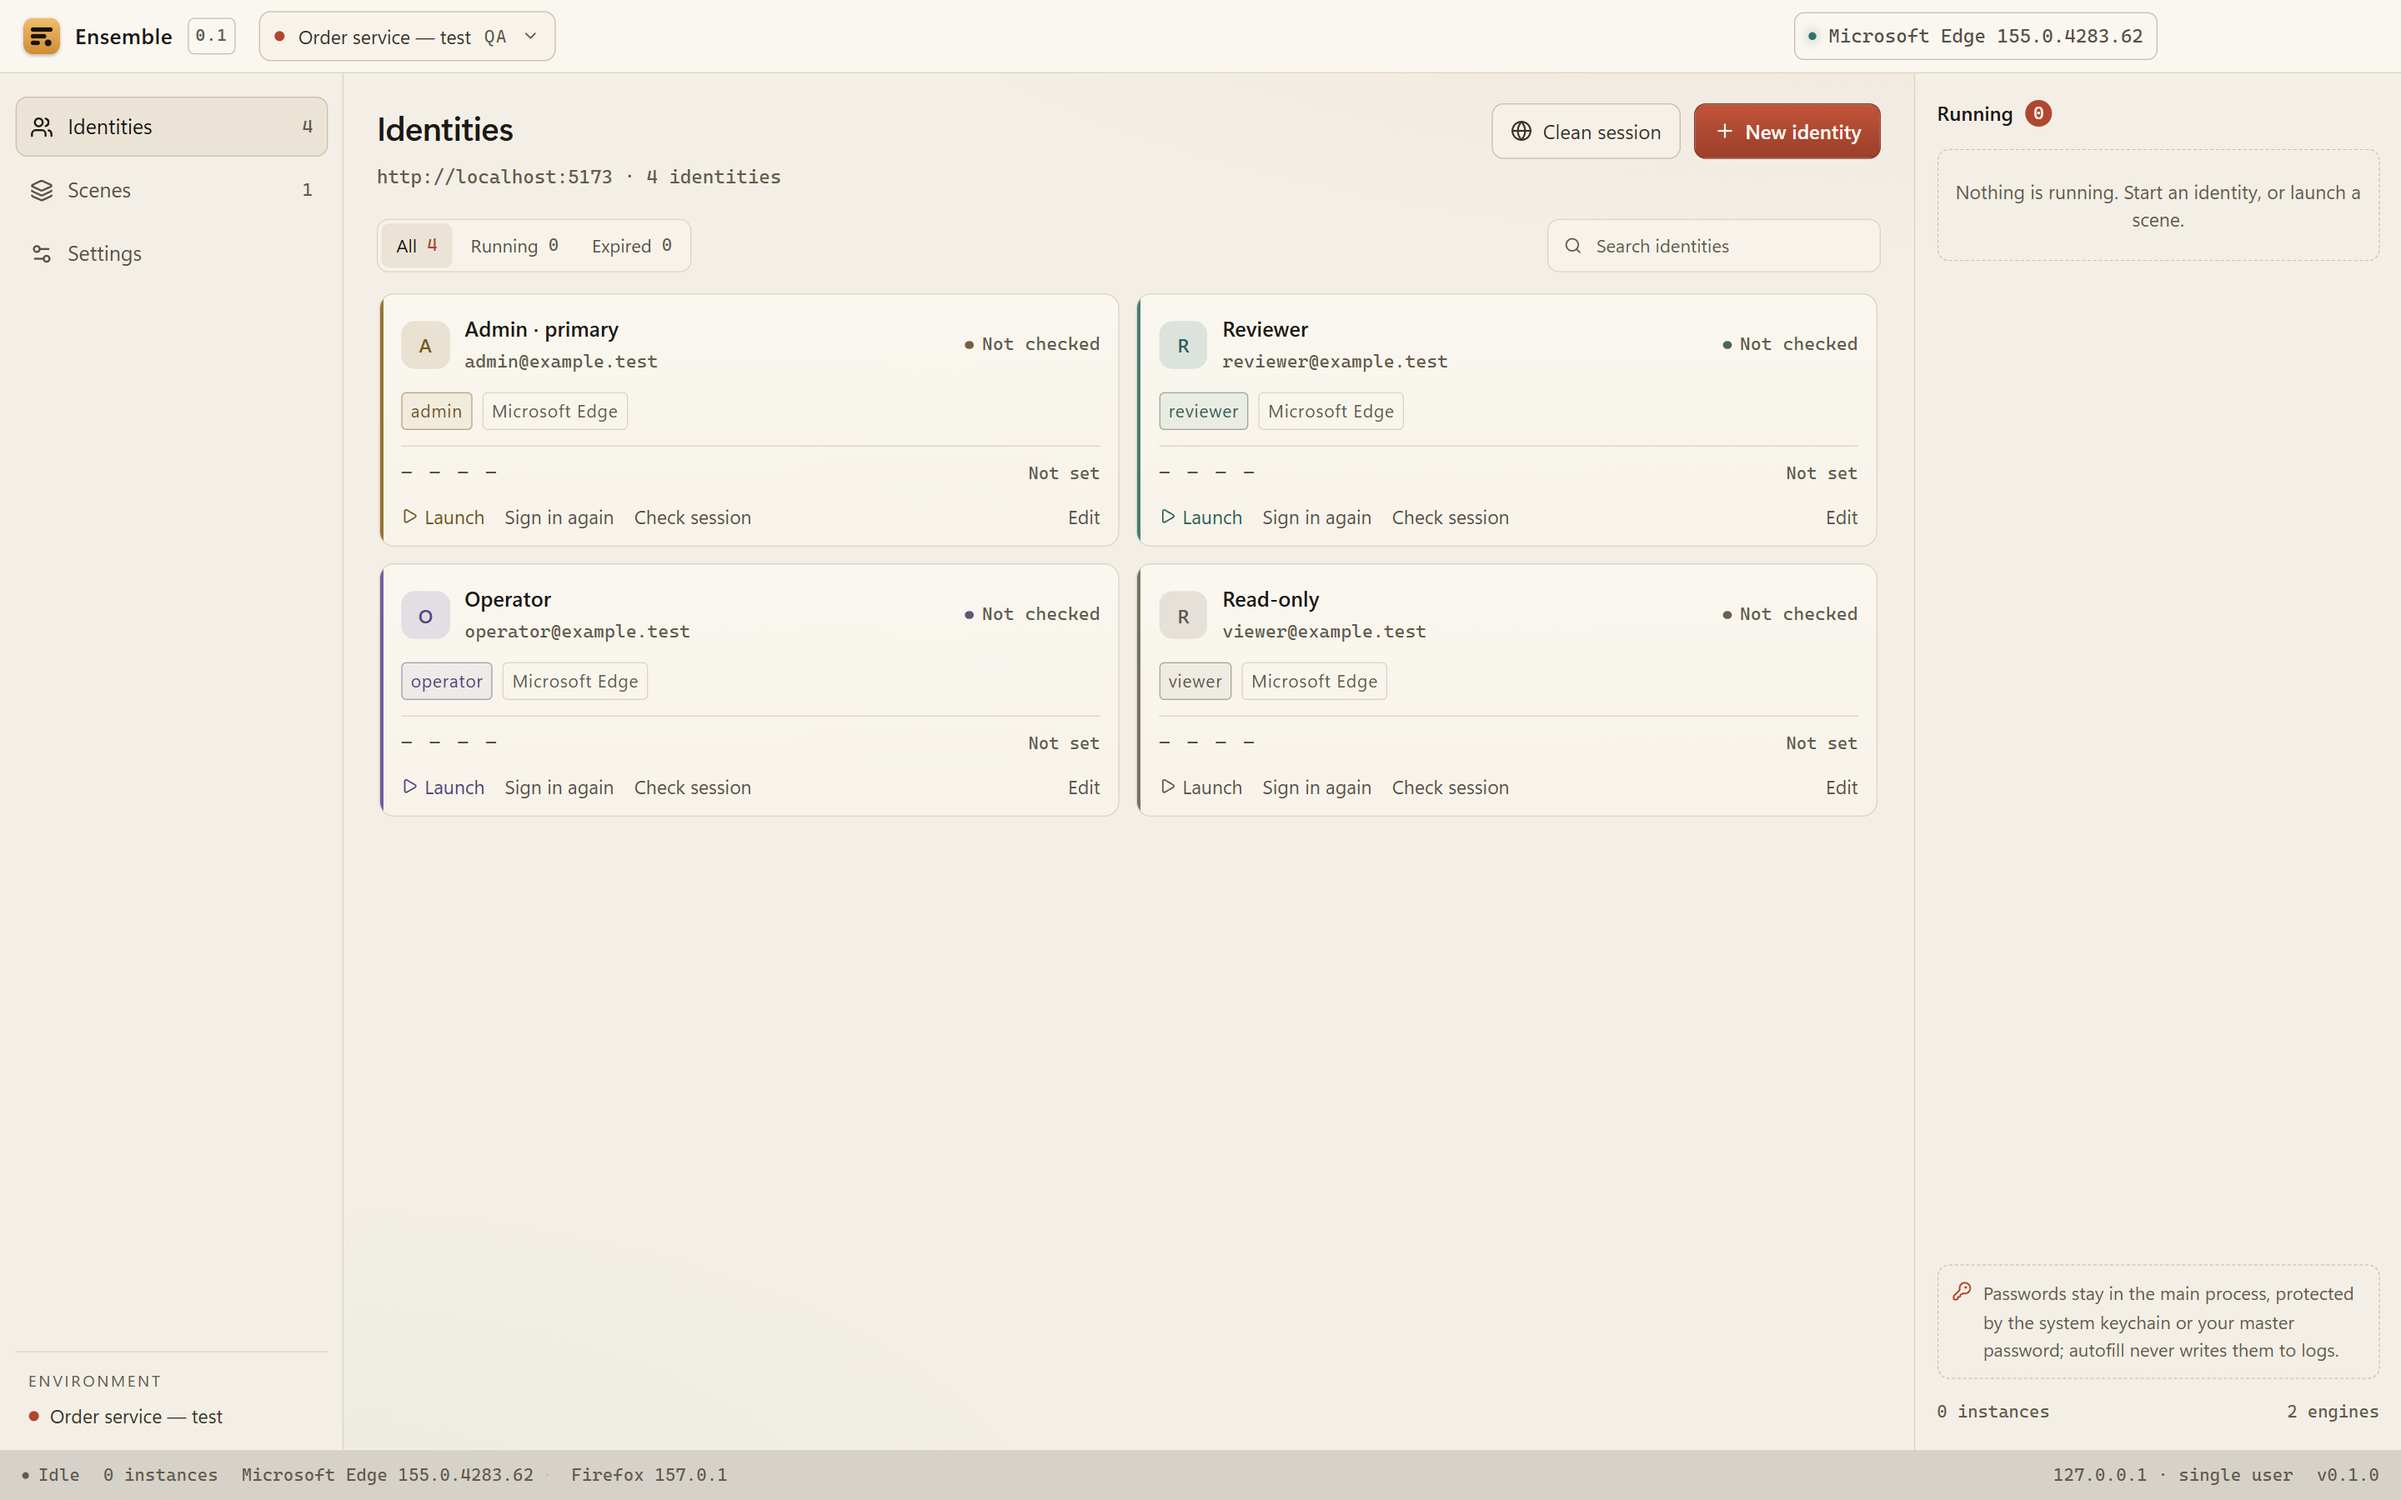
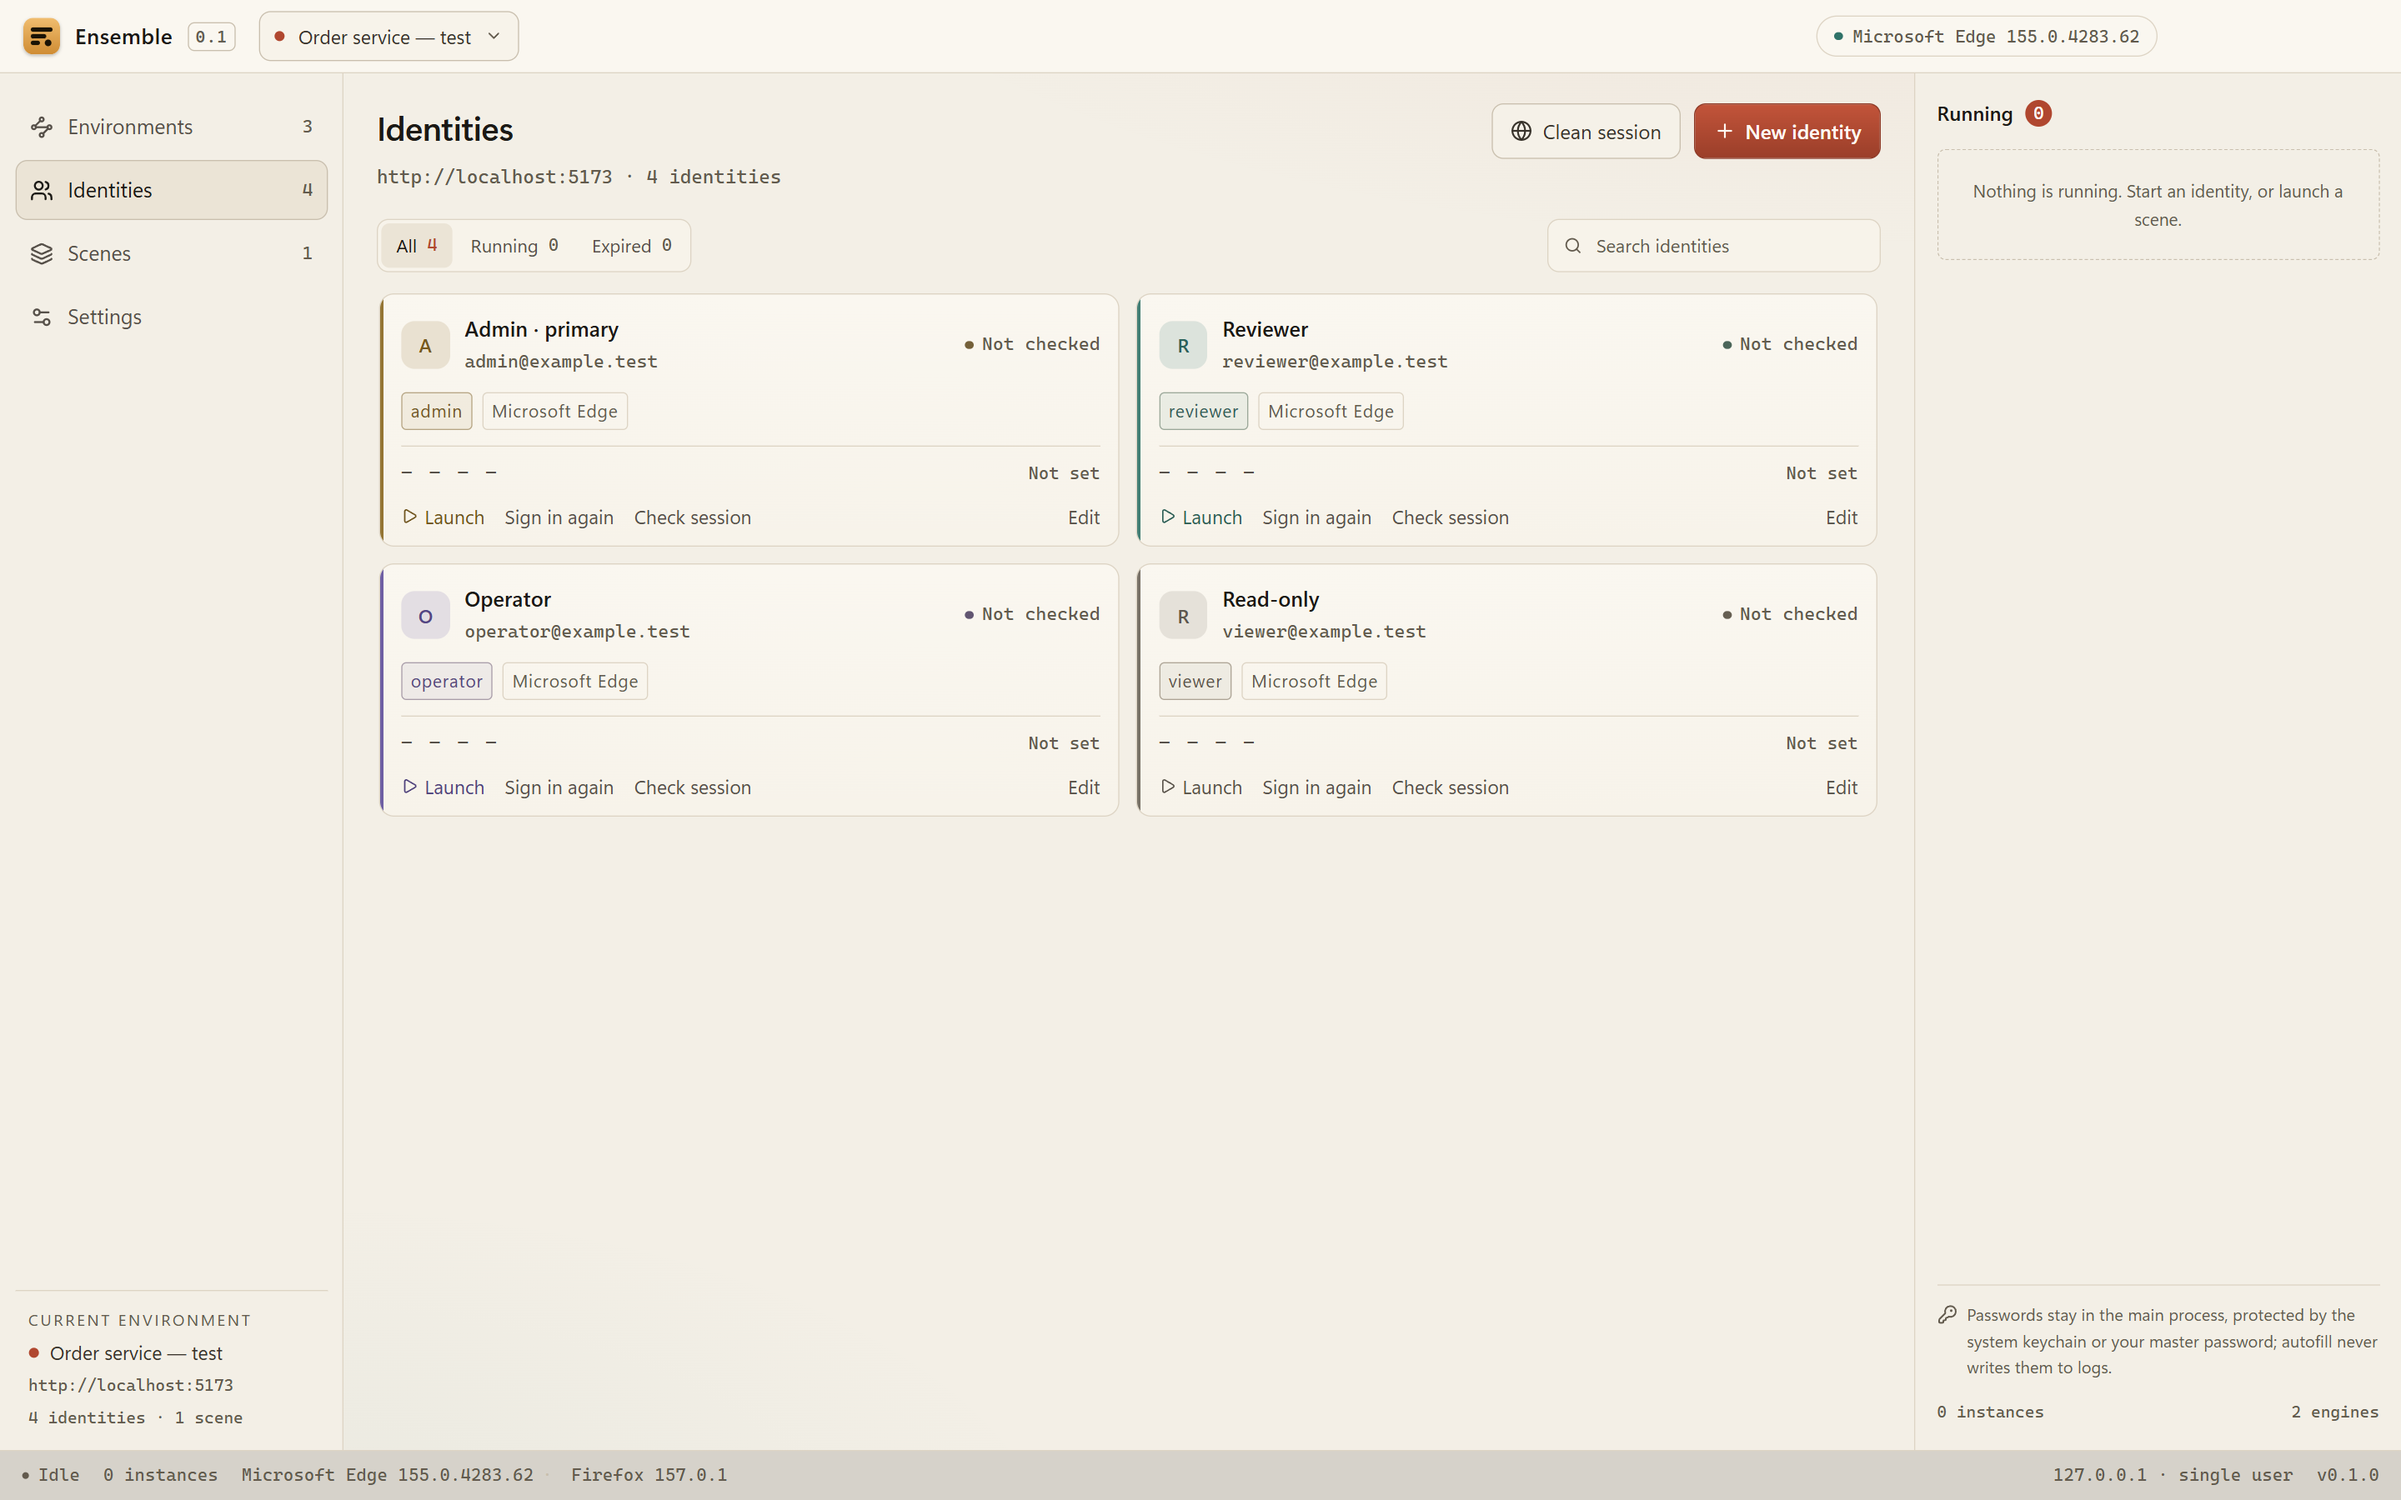
docs(root): 补充环境页与布局能力说明，截图脚本支持点击与悬停

diff --git a/README.en.md b/README.en.md
@@ -25,18 +25,26 @@ Ensemble turns those windows into a stage you can arrange: every account gets it
 | **Identity** | One account plus one dedicated browser profile | Yes, fully |
 | **Scene** | A group of identities and a window layout to launch together | No — it is orchestration |
 
-Environment 1—N identities, environment 1—N scenes, scene N—N identities. Testing one account against two environments means two identities.
+Environment 1—N identities, environment 1—N scenes, scene N—N identities. Testing one account against two environments means two identities. Switching environments switches both the identities and scenes views — the clearest signal of the isolation boundary — so the rail lists environments as the first entry:
+
+<p align="center">
+  <img src="docs/screenshots/environments-en.png" alt="Environment management" width="900" />
+</p>
 
 ## Features
 
 - **Fill on launch**: credentials are typed in as soon as the login form appears; the app names any input still unconfigured
 - **Fields beyond username and password**: tenant or company codes are matched by label, defined per environment and overridable per identity
 - **Real browser isolation**: each identity has its own profile, so sessions, cookies and extensions never mix
-- **Scene orchestration**: launch a group and tile windows with `1x1 / 2x1 / 2x2 / 3x1` layouts
+- **Scene orchestration**: launch a group of identities, tiled edge to edge with no wasted margin
+- **Place windows by role**: drag a member onto a slot to decide who sits where; open windows move with it
+- **Custom layouts**: built-in `No layout / 1×1 / 2×1 / 1×2 / 2×2 / 3×1`, plus a drag-and-drop editor for your own saved presets
+- **No-layout mode**: on a small screen, every window opens full size and overlaps — switch with the taskbar instead of shrinking four windows into tiles too small to use
+- **Reopen a single member**: closed one account by mistake? Reopen just that window from the scene detail instead of relaunching the whole scene
 - **Credential protection**: OS keychain encryption (DPAPI / Keychain / keyring), optionally hardened with an app master password
 - **Clean sessions**: throwaway windows that never log in and are deleted on close
 - **Process reclamation**: on quit, only browsers launched against Ensemble's own profile root are stopped
-- **One entry per job**: the rail navigates identities / scenes / settings; switching and creating environments live in the top environment menu
+- **One entry per job**: the rail navigates environments / identities / scenes / settings; the title bar only switches environments
 
 <p align="center">
   <img src="docs/screenshots/settings-en.png" alt="Settings and credential storage" width="900" />
@@ -46,6 +54,12 @@ The scenes view is a list on the left and a detail pane on the right: select a s
 
 <p align="center">
   <img src="docs/screenshots/scenes-en.png" alt="Scene orchestration and window layout" width="900" />
+</p>
+
+Environment switching lives in a single title-bar menu: it only changes the current scope, while managing and creating environments lives on the environments page.
+
+<p align="center">
+  <img src="docs/screenshots/env-menu.png" alt="Environment switcher" width="640" />
 </p>
 
 The light theme matches the dark one, down to the native title-bar buttons:

diff --git a/docs/engineering/踩坑库.md b/docs/engineering/踩坑库.md
@@ -166,6 +166,50 @@
 - **日期**：2026-10-19
 - **状态**：有效（已落地）
 
+### 主按钮在深色主题下 hover 变成灰底
+
+- **环境**：任一弹窗的「保存」按钮，深色主题
+- **原因**：`.btn:hover` 只写 `background: var(--surface-3)`，主按钮的渐变是
+  `.btn.primary` 给的。两个类同时命中时 hover 规则优先级相等但更靠后，
+  于是主按钮被刷成灰色，看起来像禁用。
+- **解决**：主按钮必须显式重述 `.btn.primary:hover` 的背景渐变，再用
+  `filter: brightness()` 做提亮。新增按钮样式时先检查是否有泛化的
+  `.btn:hover` 会覆盖它。
+- **日期**：2026-10-19
+- **状态**：有效（已落地）
+
+### 标题栏环境切换器看着「没垂直居中」
+
+- **环境**：Windows，标题栏自定义下拉框
+- **原因**：容器本身是居中的，但内部文本节点继承了 `line-height: 1.5`，
+  旁边的徽标又是独立的字号，行盒高度不一致，视觉基线就歪了。
+- **解决**：切换器内所有子元素统一 `line-height: 1`、`align-items: center`，
+  圆点用固定宽高并 `align-self: center`。判断这类问题要看行盒，不要只看容器。
+- **日期**：2026-10-19
+- **状态**：有效（已落地）
+
+### 场景拖拽换槽位后，窗口又被「启动顺序」排回去
+
+- **环境**：多窗口场景，CDP 窗口定位
+- **症状**：把成员拖到别的槽位，界面里的映射更新了，一启动场景窗口却按成员顺序
+  重新排列，拖拽结果被覆盖。
+- **原因**：启动结束后统一调用了一次重排（`tileInstances`），它按实例在列表里的
+  下标取槽位，完全没读场景的 `slotAssignments`。
+- **解决**：启动过程中把每个实例解析出的槽位收进 `Map<instanceId, slotIndex>`
+  一起传给重排；重排优先用它，其次用实例自己记录的 `slotIndex`。
+  未指定槽位的成员由 `resolveSlotAssignments` 按成员顺序补空槽，老场景照常可用。
+- **日期**：2026-10-19
+- **状态**：有效（已落地）
+
+### 四等分窗口四周留白，屏幕小的时候尤其明显
+
+- **环境**：任意分辨率
+- **原因**：网格计算固定减去 8px padding 与 8px gap，纯属浪费可视面积。
+- **解决**：预设改为按工作区比例直接铺满，不加外边距；窗口之间的 1px 边框足够
+  区分。布局坐标存比例（0–1），换显示器不用重算。
+- **日期**：2026-10-19
+- **状态**：有效（已落地）
+
 ---
 
 ### 新建实例仍是登录状态，并弹出同步提示与扩展欢迎页

diff --git a/.agents/skills/screenshot-refresh/SKILL.md b/.agents/skills/screenshot-refresh/SKILL.md
@@ -23,10 +23,19 @@ pnpm build && pnpm screenshots
 ## 步骤
 
 1. `pnpm build`——脚本读 `out/`，不先构建会直接报错退出。
-2. 按需修改 `SHOTS`（截图名 / 语言 / 视图 / 主题）与 `DEMO`（演示环境、身份、场景）。
+2. 按需修改 `SHOTS`（截图名 / 语言 / 视图 / 主题 / 点击 / 悬停）与 `DEMO`
+   （演示环境、身份、场景）。
 3. 运行 `pnpm screenshots`。
 4. 打开生成的 PNG 核对：文案是否随语言切换、是否有残留中文、是否有空状态或错位。
 5. 新增或删除截图后，同步更新 `README.md` 与 `README.en.md` 的引用。
+
+截图支持三类交互，够覆盖绝大多数界面状态：
+
+| 字段 | 作用 |
+| --- | --- |
+| `view` | 点击 `[data-nav="<view>"]` 切到该页 |
+| `clicks` | 依次点击 CSS 选择器，例如 `[".env-switch"]` 拍展开的下拉菜单 |
+| `hover` | 把鼠标移到某个元素上再截图，用于验证按钮 hover 态 |
 
 ## 注意点
 
@@ -35,8 +44,11 @@ pnpm build && pnpm screenshots
 - 截图固定 1440×900、2x 缩放；CSS 改版后重点看窄宽度下的断行与溢出。
 - 脚本只杀自己 spawn 的 PID，并删除自己的临时目录；不要改成按进程名清理。
 - 调试端口随机取 9900–9989，避免碰到本机常驻服务（如 9527）。
+- 数据结构变了要同步 `seed()`：它直接写 `workspace.json`，字段与 `@shared/types`
+  不一致时应用会静默回落到空状态，截出来就是一张空页面。
 
 ## 变更触发
 
-改动 `src/renderer/` 的任何可见界面、i18n 文案或 `scripts/capture-screenshots.mjs`
-时，必须重出受影响的截图并检查 README 引用；截图与界面不一致视为未完成。
+改动 `src/renderer/` 的任何可见界面、i18n 文案、`workspace.json` 结构或
+`scripts/capture-screenshots.mjs` 时，必须重出受影响的截图并检查 README 引用；
+截图与界面不一致视为未完成。
